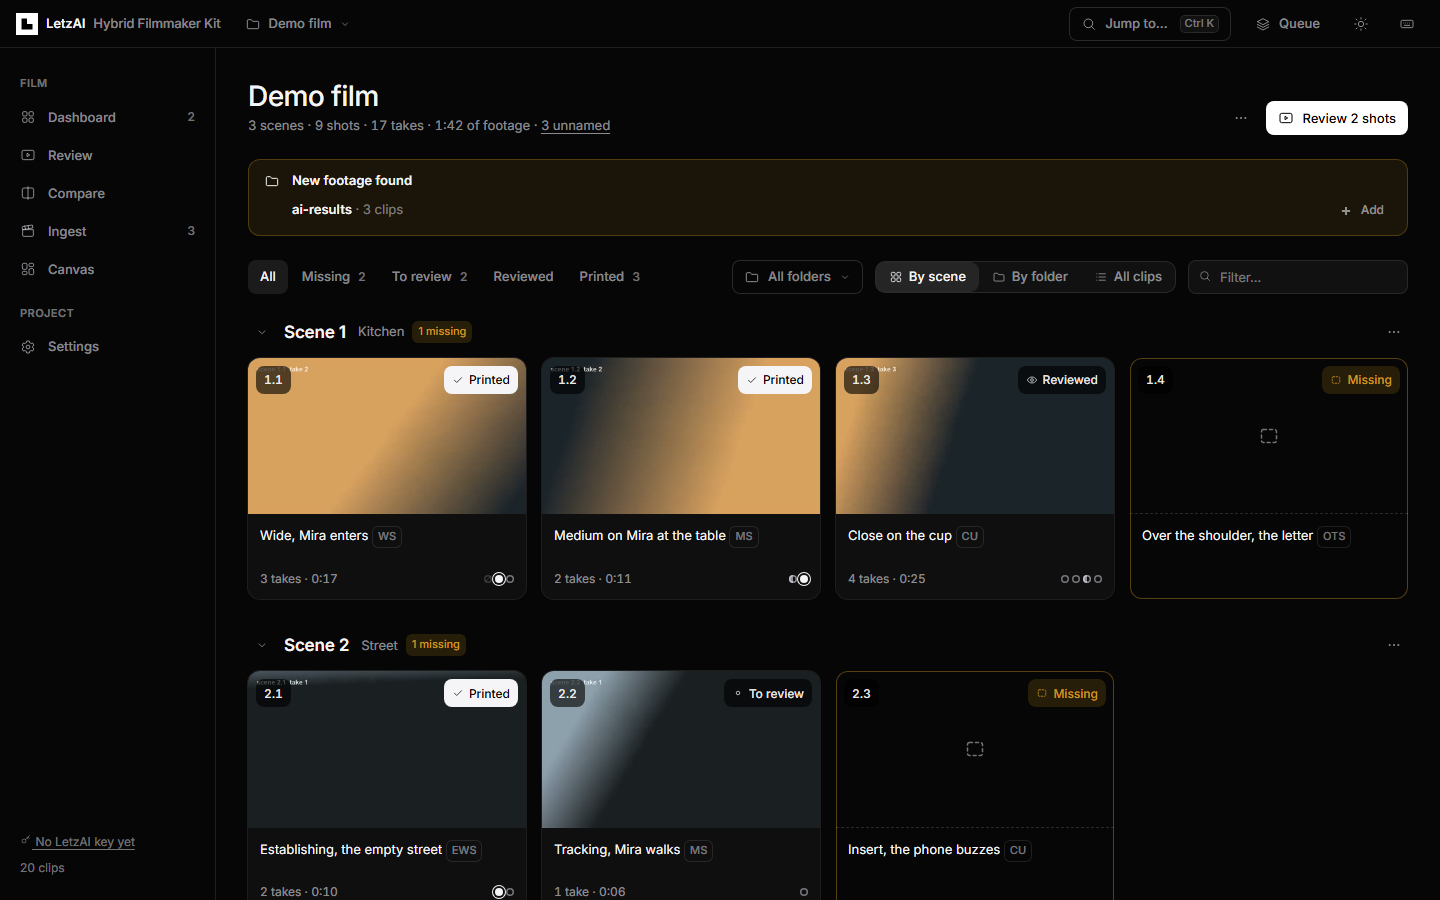
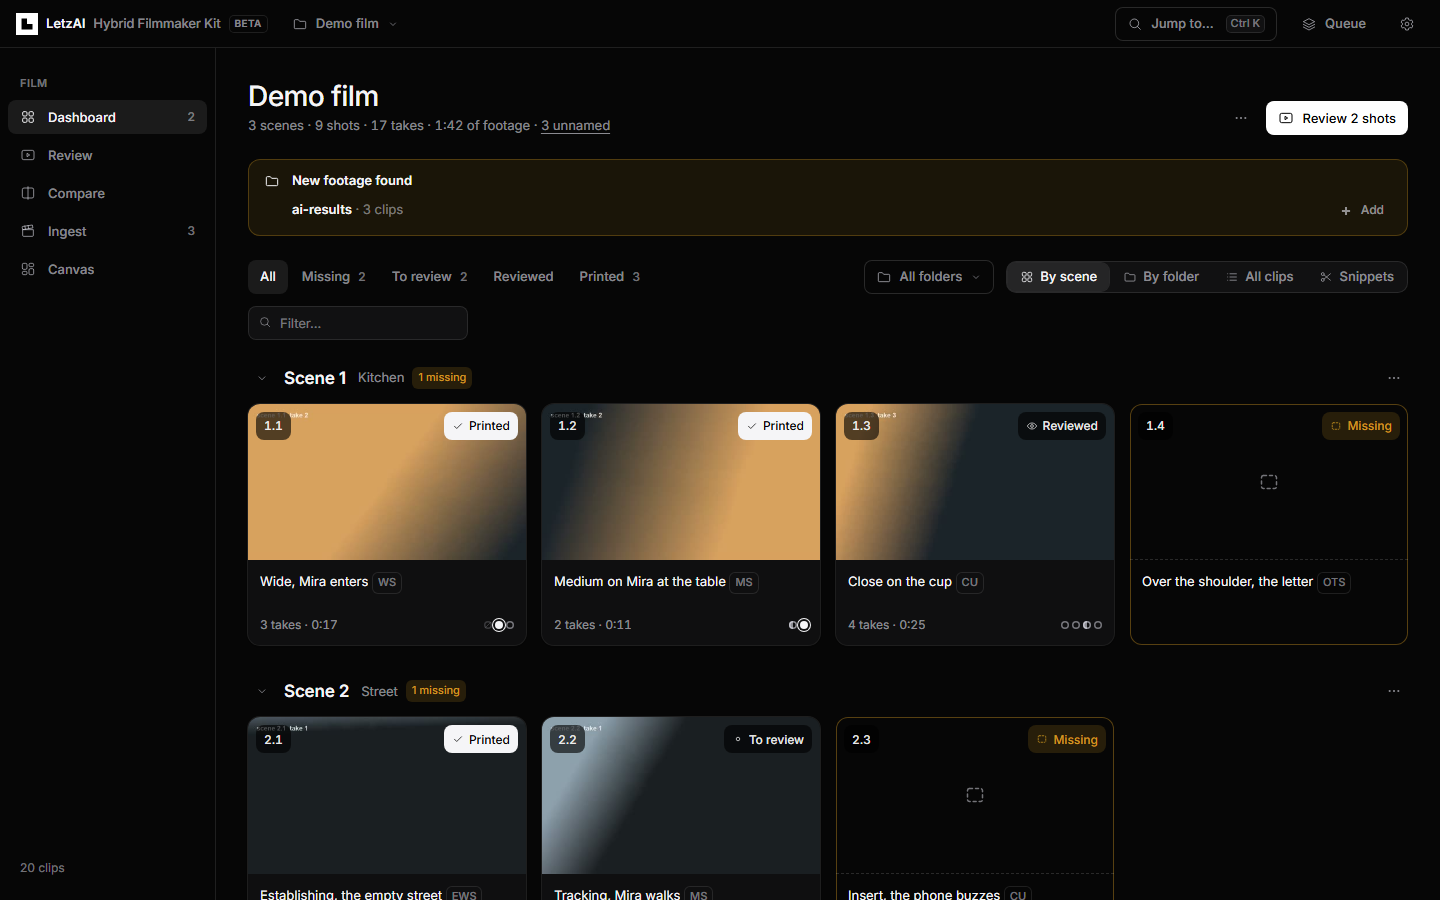
README: fresh screenshots of the current interface, and one of the Snippets view

diff --git a/README.md b/README.md
@@ -187,6 +187,8 @@ LetzAI works with short clips, so takes are cut into **snippets** of at most 30 
 - **Click a snippet** to play it, with buttons to upload it, send it to the canvas, copy its LetzAI link, show it in the folder or delete it.
 - **Review → Canvas** shows the take's snippets as small cards, with buttons to cut and to upload.
 
+![Snippets: every snippet as a card, select and upload or send](docs/screenshots/snippets.png)
+
 *Upload to LetzAI* puts the files into your LetzAI uploads without touching the canvas. *Send to Canvas* also places them on the canvas, and reuses anything you already uploaded. Each snippet shows what happened to it, so nothing is uploaded twice. If you change the in and out points or the snippet length later, the snippets show **outdated**; cutting again replaces them.
 
 ### Renaming takes that already have a name
